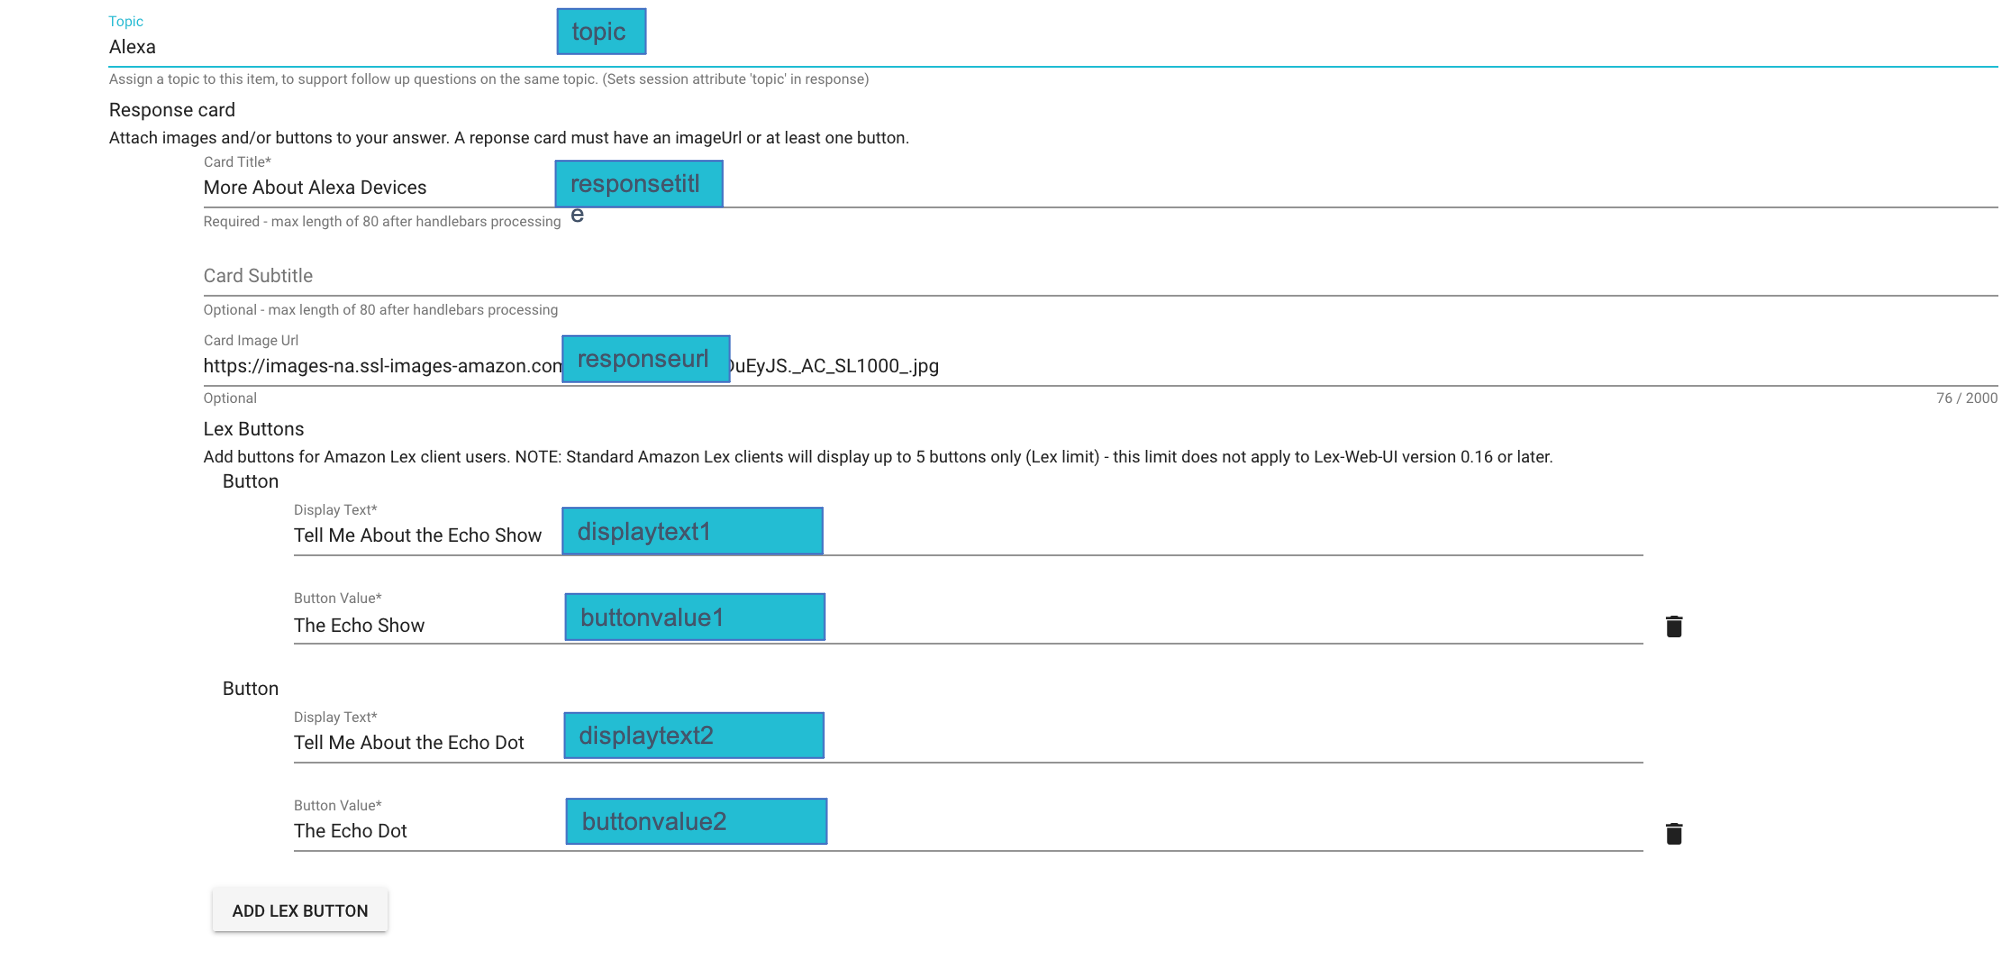
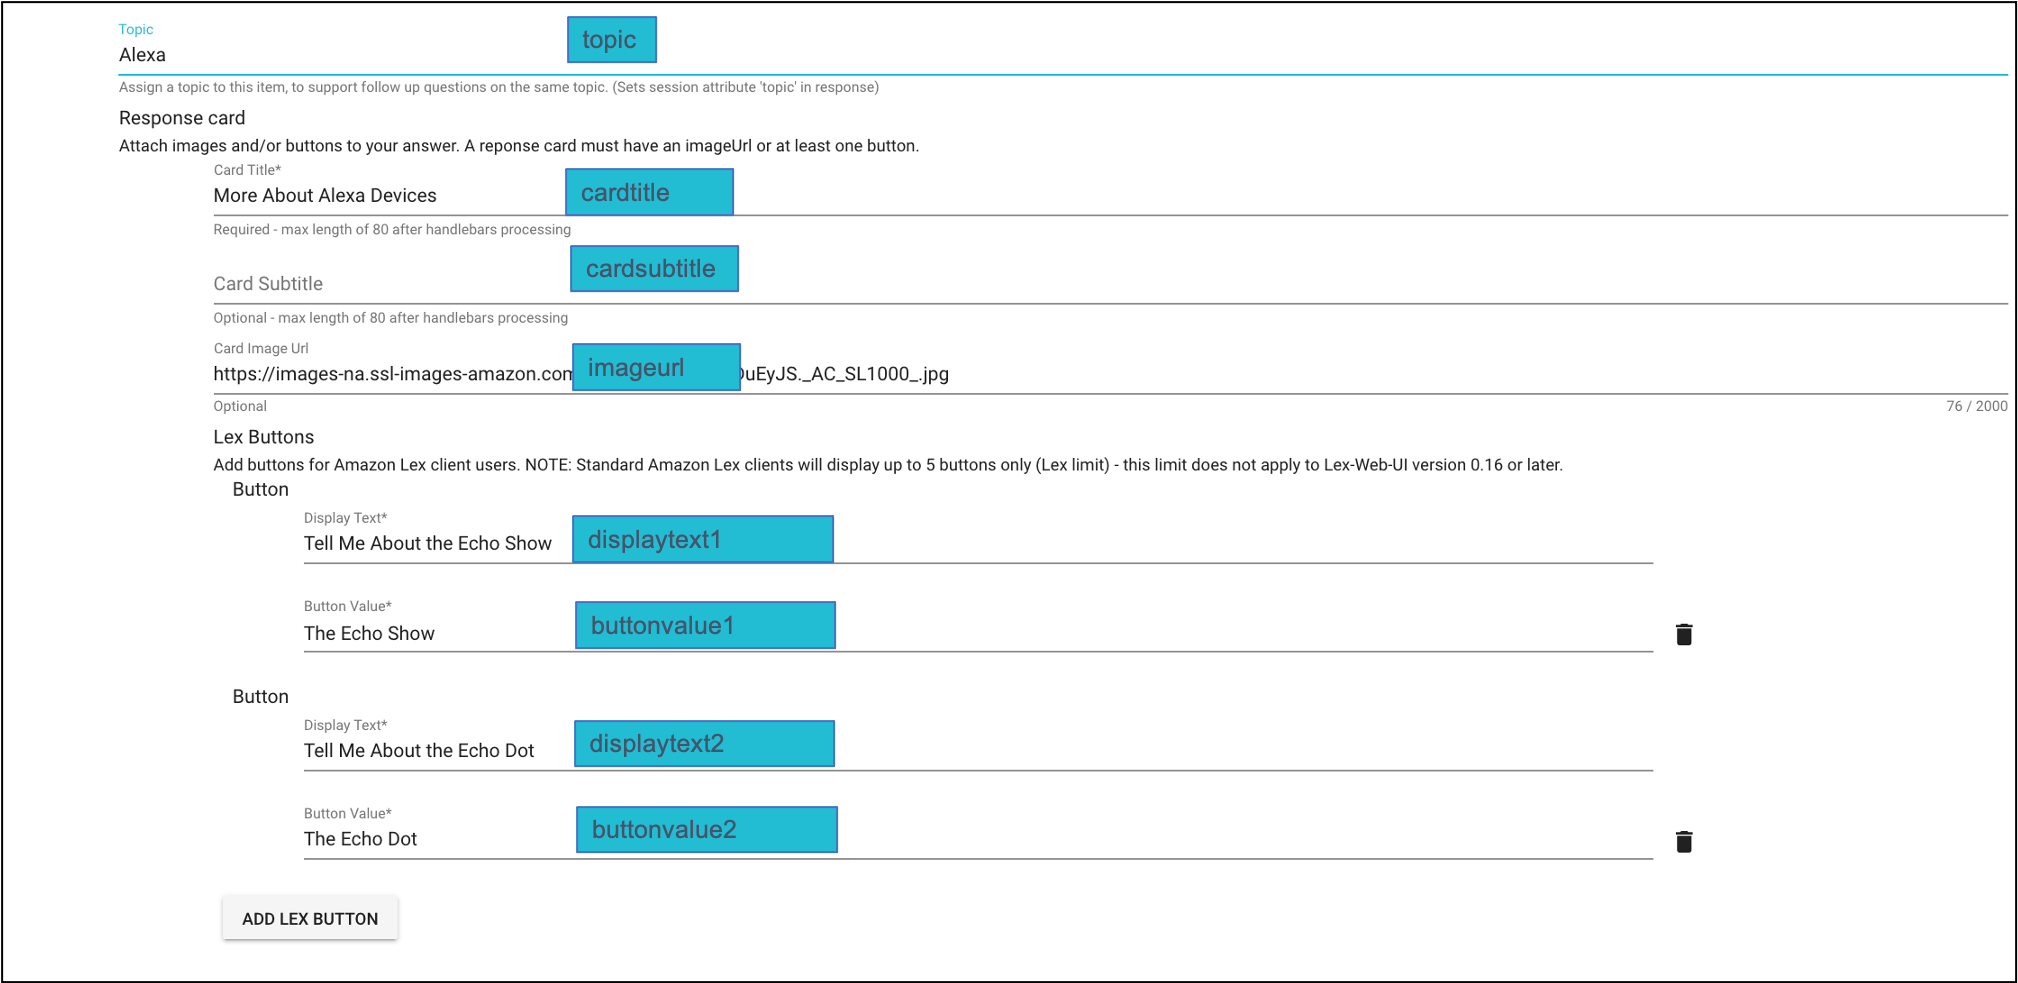
Initial commit of documentation for the Excel import

diff --git a/website/js/components/import.vue b/website/js/components/import.vue
@@ -327,10 +327,13 @@ module.exports = {
                 delete question[property]
              }
            }
-          if(question["responsetitle"] != undefined){
+          if(question["cardtitle"] != undefined){
             console.log("processing response title")
             question.r = {}
-            question.r.title = question["responsetitle"]
+            question.r.title = question["cardtitle"]
+            if(question["imageurl"] != undefined){
+              question.r.imageUrl = question.imageurl
+            }
             question.r.buttons = []
             let i = 1
             while(true){

diff --git a/docs/excel_import/README.md b/docs/excel_import/README.md
@@ -1,0 +1,29 @@
+# Excel Workbook Import
+
+QnABot now supports importing questions and answers from Excel (xlsx) workbooks.
+
+A [sample](./sample.xlsx) Excel workbook is included. Each column in the Excel sheet maps to a field in the Content Designer.
+
+## Basic Fields
+![Designer Part 1](./DesignerMapping1.png)
+
+
+Excel Column | Content Designer Field| Description
+---------|----------|---------
+ qid | Item ID | Assign a unique identifier for this item
+ question1...question(n) | Question | One or more questions for the item. Each question should be in a separate column numbered question1, question2, ...
+ answer | Answer | The answer you want to be returned when the user asks one of the questions you specified.
+ markdown | Markdown Answer | Alternate [Markdown](https://guides.github.com/features/mastering-markdown/) answer.
+ ssml | SSML Answer | Alternate [SSML](https://developer.amazon.com/en-US/docs/alexa/custom-skills/speech-synthesis-markup-language-ssml-reference.html) answer.
+
+## Topics and Response Cards
+
+![Designer Part 2](./DesignerMapping2.png)
+
+Excel Column | Content Designer Field| Description
+---------|----------|---------
+ topic | Topic| Assign a topic to this item, to support follow up questions on the same topic
+ cardtitle | Card Title | Required - max length of 80
+ cardimageurl | Card Image Url | The web address of an image that will appear on the response card
+ displaytext1...displaytext(n) | Display Text | The text of the button. Each button text should be in a separate column numbered button1, button2, ... 
+ buttonvalue...buttonvalue(n) | Button Value| The value of the button. Each button value should be in a separate column numbered button1, button2, ... 
